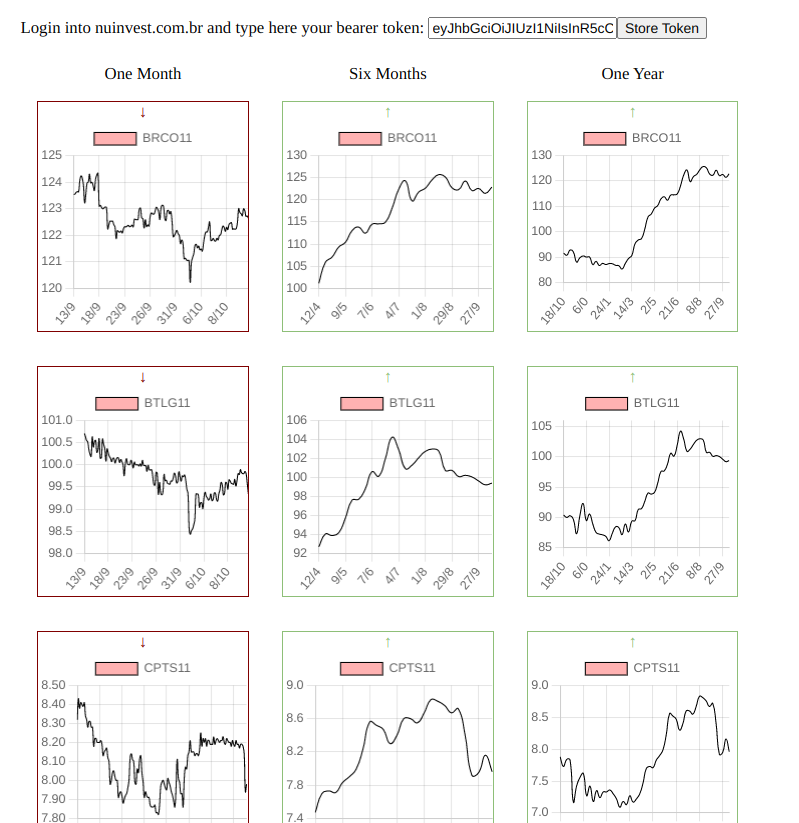
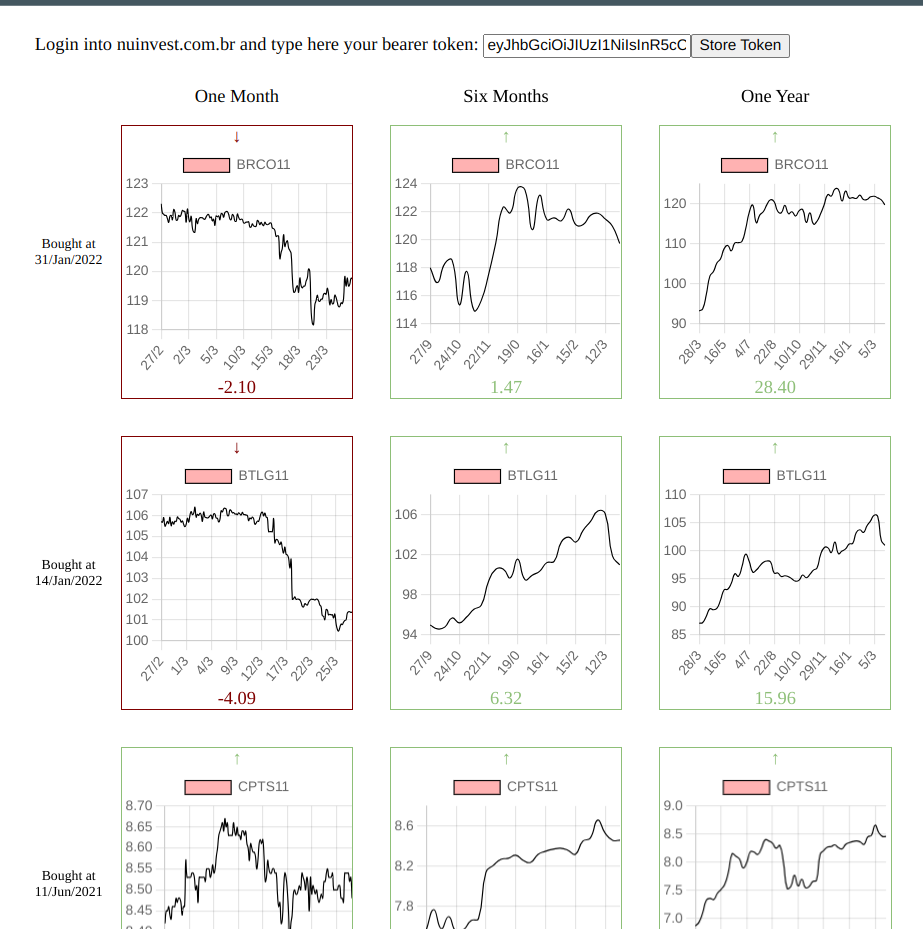
Adding Buy Date

diff --git a/src/app/app.component.ts b/src/app/app.component.ts
@@ -5,7 +5,8 @@ import { PerformanceChartComponent } from './performance-chart/performance-chart
 import { ChartPeriodEnum, NuinvestRequest } from '../nuinvest/nuinvest-request.model';
 import { StorageService } from './token-store/storage.service';
 import { TokenStoreComponent } from './token-store/token-store.component';
-import { Observable, Subscription, tap } from 'rxjs';
+import { ActionHistory } from './action-history/action-history.model';
+import actionHistoryData from '../assets/action-history-data.json';
 
 @Component({
   selector: 'app-root',
@@ -23,19 +24,7 @@ export class AppComponent implements OnInit, OnDestroy {
     [ChartPeriodEnum.ONE_YEAR]: 'One Year',
   };
 
-  actionCodes: string[] = [
-    'BRCO11',
-    'BTLG11',
-    'CPTS11',
-    'KNCR11',
-    'KNSC11',
-    'PVBI11',
-    'RBRR11',
-    'XPML11',
-    'GOGL34',
-    'BITH11',
-    'BOVA11'
-  ];
+  actionHistory: ActionHistory = new ActionHistory();
 
   timePeriods: ChartPeriodEnum[] = [
     ChartPeriodEnum.ONE_MONTH,
@@ -51,11 +40,13 @@ export class AppComponent implements OnInit, OnDestroy {
   }
 
   ngOnInit(): void {
-    this.parameters = this.actionCodes.map(actionCode => 
-      this.timePeriods.map(timePeriod =>({
-          actionCode: actionCode,
-          chartPeriod: timePeriod
-        })
+    this.actionHistory = Object.assign(new ActionHistory(), actionHistoryData);
+
+    this.parameters = this.actionHistory.historyItems.map(historyItem =>
+      this.timePeriods.map(timePeriod => ({
+        actionCode: historyItem.actionCode,
+        chartPeriod: timePeriod
+      })
       )
     );
 

diff --git a/src/app/app.component.html b/src/app/app.component.html
@@ -3,10 +3,14 @@
 </div>
 
 <div *ngIf="hasTokenSet$ | async" class="charts-area">
-  <div *ngFor="let actionCode of actionCodes; let i = index;" class="action-row">
+  <div *ngFor="let historyItem of actionHistory.historyItems; let i = index;" class="action-row">
+    <div class="flex-column font-sm">
+      <span>Bought at</span>
+      <span>{{ historyItem.buyDate | date: 'dd/MMM/yyyy' }}</span>
+    </div>
     <div *ngFor="let timePeriod of timePeriods; let j = index;" class="time-period-entry">
       <span *ngIf="i == 0">{{ timePeriodLabels[timePeriod] }}</span> <!-- only first row -->
-      <app-performance-chart [parameters]="parameters[i][j]"></app-performance-chart>  
+      <app-performance-chart [parameters]="parameters[i][j]"></app-performance-chart>
     </div>
-  </div>  
+  </div>
 </div>

diff --git a/src/app/performance-chart/performance-chart.component.ts b/src/app/performance-chart/performance-chart.component.ts
@@ -1,7 +1,7 @@
 import { Component, Input, OnDestroy, OnInit } from '@angular/core';
 import { CommonModule } from '@angular/common';
 import { NgChartsModule } from 'ng2-charts';
-import { ChartConfiguration, ChartOptions } from 'chart.js';
+import { ChartOptions } from 'chart.js';
 import { NuinvestService } from '../../nuinvest/nuinvest.service';
 import { NuinvestChartItem } from '../../nuinvest/nuinvest-chart-item.model';
 import { Observable, Subject, last, of, switchMap, takeUntil, throwError } from 'rxjs';

diff --git a/src/app/app.component.scss b/src/app/app.component.scss
@@ -4,6 +4,17 @@ body {
 
 .action-row {
     display: flex;
+    align-items: center;
+}
+
+.flex-column {
+    display: flex;
+    flex-direction: column;
+    align-items: center;
+}
+
+.font-sm {
+    font-size: 12px;
 }
 
 .time-period-entry {

diff --git a/src/app/action-history/action-history.model.ts b/src/app/action-history/action-history.model.ts
@@ -1,0 +1,8 @@
+export class ActionHistory {
+    historyItems: ActionHistoryItem[] = [];
+}
+
+export class ActionHistoryItem {
+    actionCode!: string;
+    buyDate!: Date;
+}
